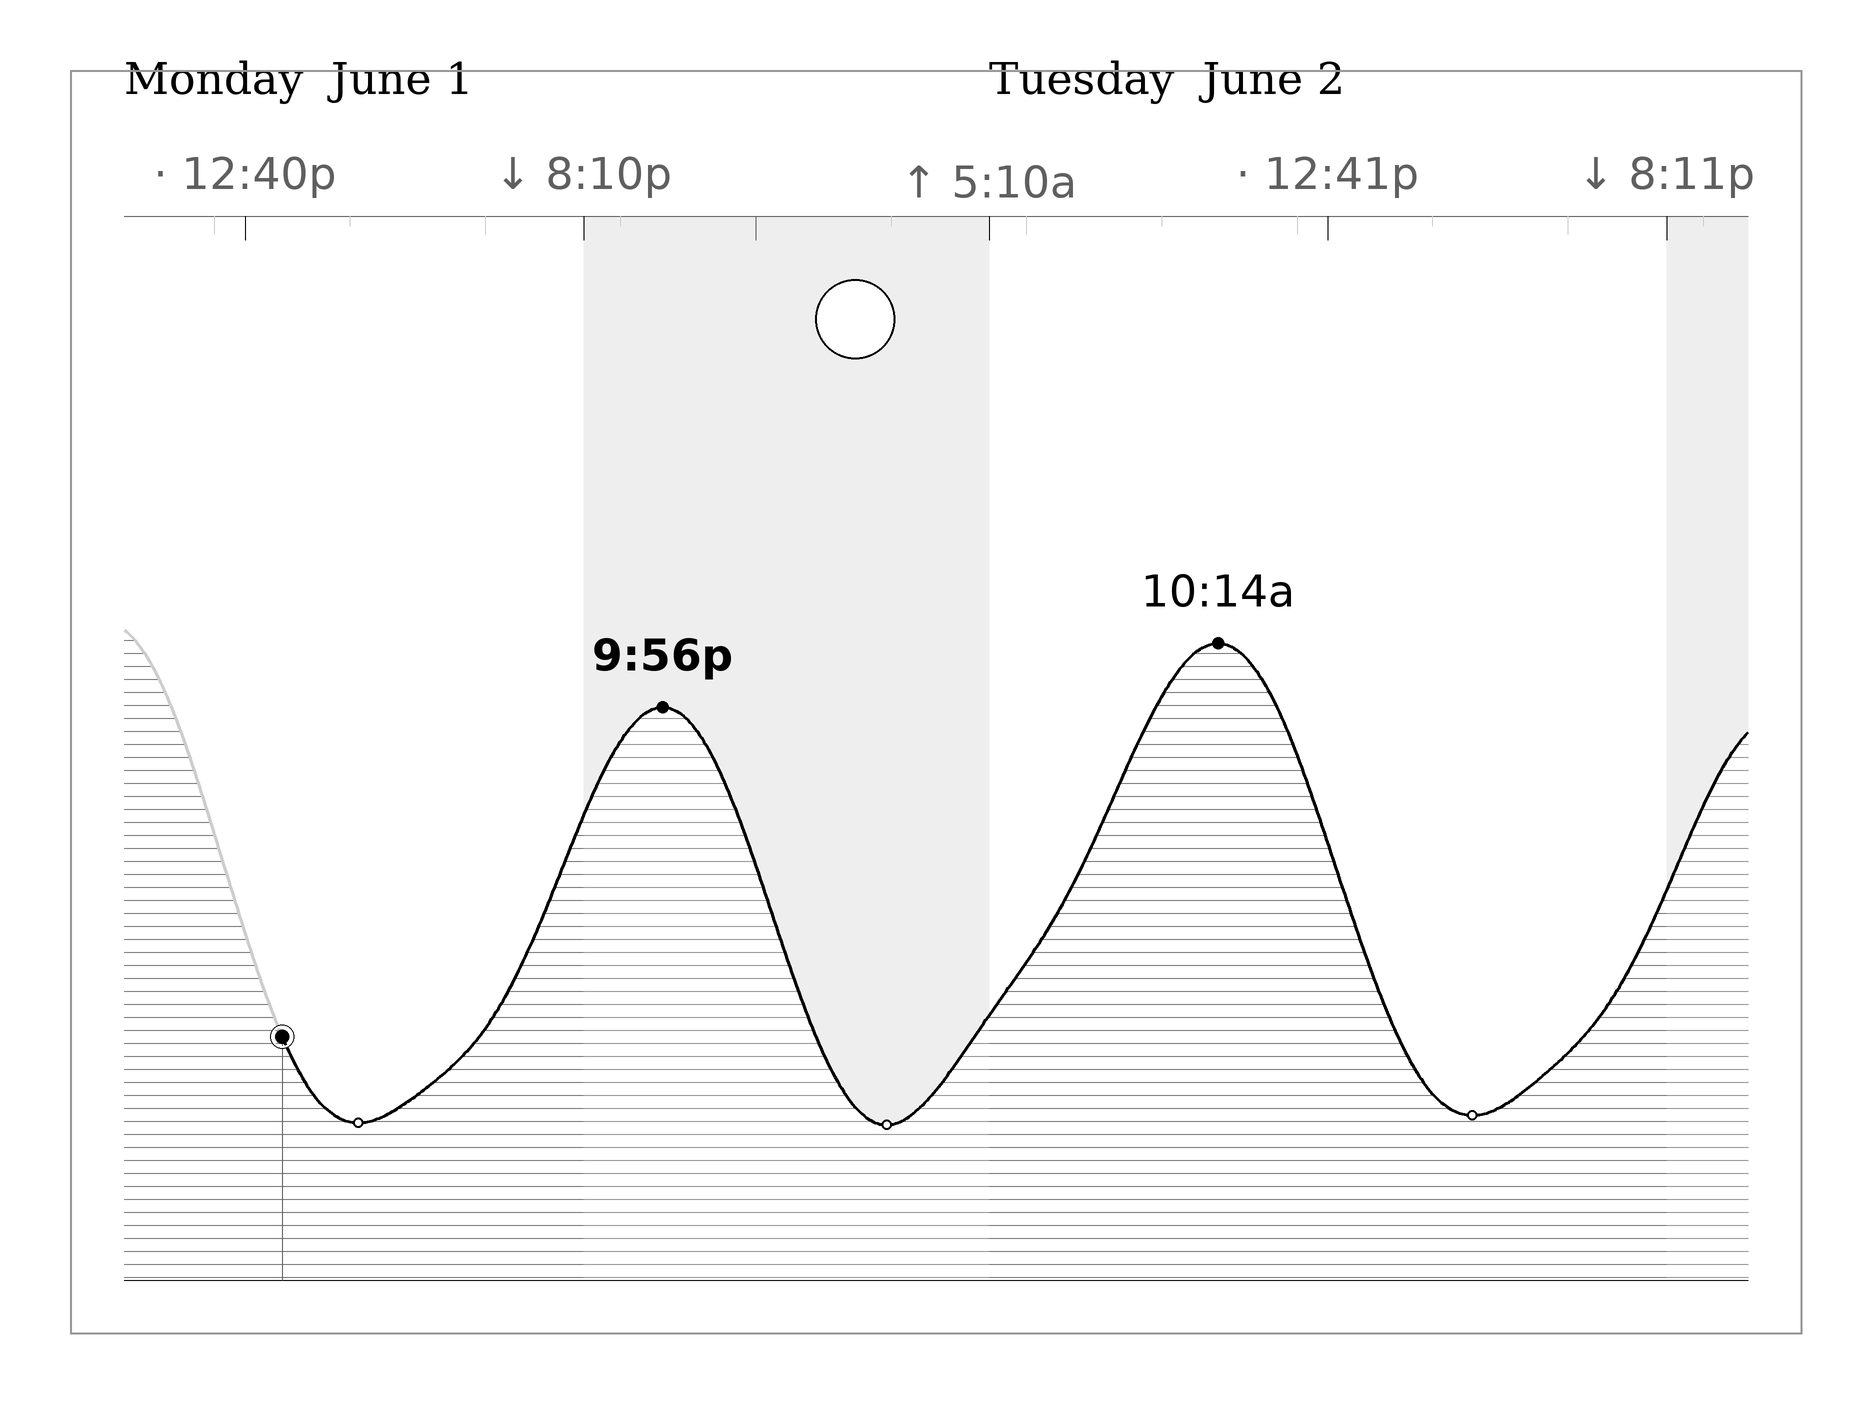
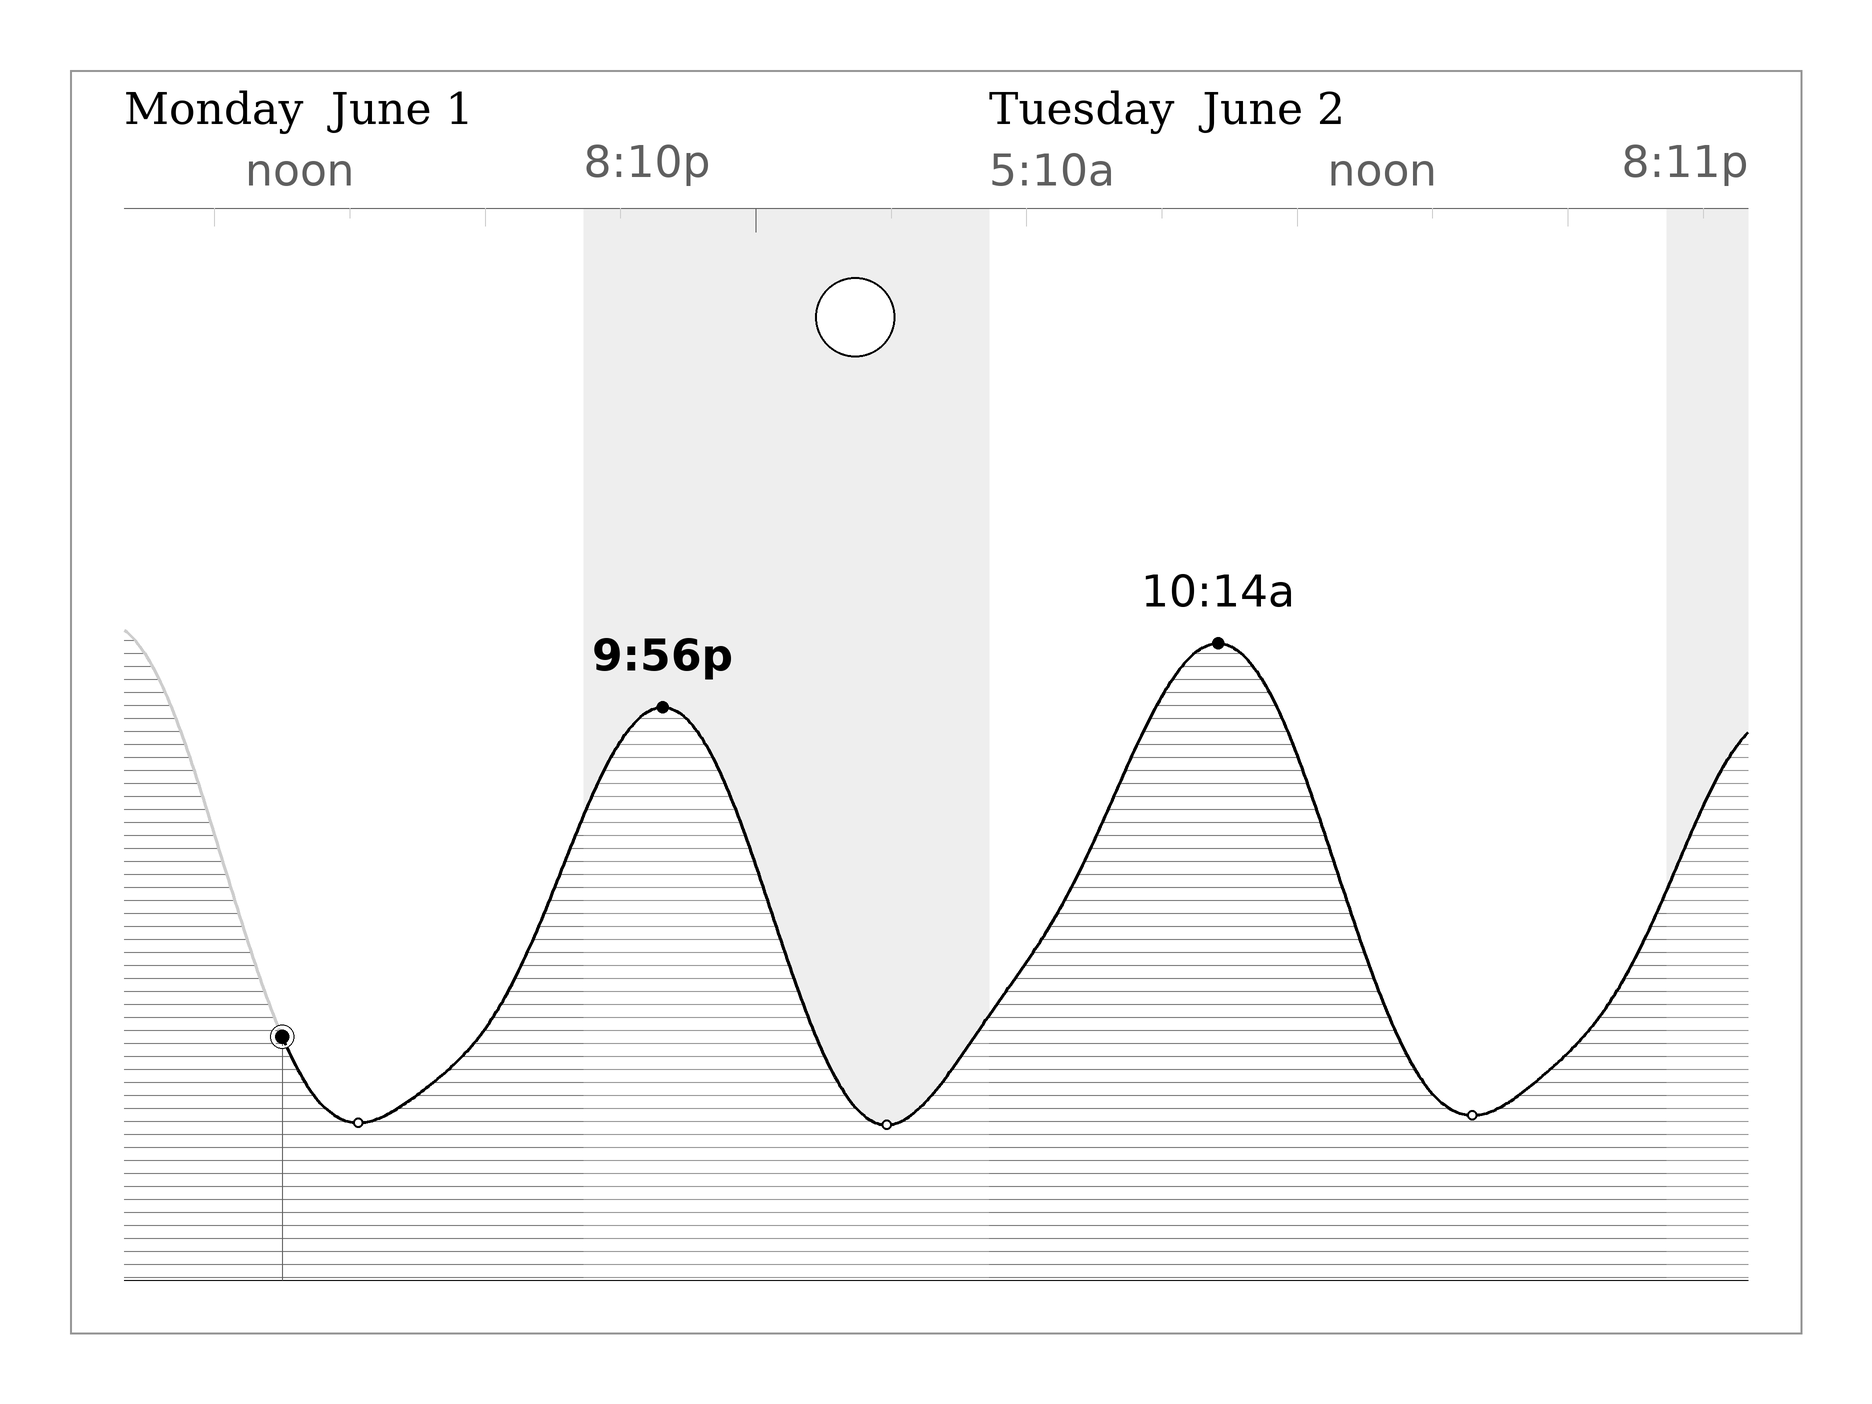
Fix title overflow; left-align sun times; label noon as "noon"
- Push the top three rows down so the day+date title no longer pokes above
  the frame border (the FONT_MIN floor had made it taller than its slot).
- Sun times row is now left-aligned at each event tick (sunrise / sunset),
  clamped to stay inside the plot, matching the title's left-anchoring.
- Solar noon now reads "noon" instead of a redundant clock time like "12:41p";
  sunrise and sunset show their times. Hour ticks remain on the 3h grid
  (3/6/9/12), so the sun events are called out by the times row, not by
  special ticks.

https://claude.ai/code/session_014Fq612UsCZ38iCJpVjwvpW

diff --git a/src/python/render/ribbon.py b/src/python/render/ribbon.py
@@ -246,9 +246,8 @@ def _draw_title_and_axis(c, ctx, X):
             c.text((left, T.TITLE_Y), label, T.INK, "serif", 30, anchor="lb")
         day = d1
 
-    # --- sun event times row (above the axis): sunrise, solar noon, sunset ---
+    # --- sun times row (above the axis), left-aligned near each event tick ---
     yt = T.AXIS_TICK_Y                # axis line; also the top of the night box
-    sun_marks = []                    # (x, when) to also tick on the axis
     d = start.astimezone(tz).date()
     last = end.astimezone(tz).date()
     while d <= last:
@@ -256,21 +255,21 @@ def _draw_title_and_axis(c, ctx, X):
         sr, ss = ev["sunrise"], ev["sunset"]
         marks = []
         if sr:
-            marks.append(("↑ " + _fmt_time(sr), sr))   # sunrise
+            marks.append((_fmt_time(sr), sr))            # sunrise time
         if sr and ss:
-            noon_t = sr + (ss - sr) / 2                       # solar noon
-            marks.append(("· " + _fmt_time(noon_t), noon_t))
+            marks.append(("noon", sr + (ss - sr) / 2))    # solar noon
         if ss:
-            marks.append(("↓ " + _fmt_time(ss), ss))    # sunset
+            marks.append((_fmt_time(ss), ss))            # sunset time
         for label, when in marks:
             x = X(when)
-            if T.PLOT_LEFT + 30 <= x <= T.PLOT_RIGHT - 30:
-                c.text((x, T.SUN_LABEL_Y), label, T.INK_SOFT, "sans", 20,
-                       anchor="mb")
-                sun_marks.append(x)
+            if T.PLOT_LEFT <= x <= T.PLOT_RIGHT:
+                w = c.text_width(label, "sans", 20)
+                lx = min(x, T.PLOT_RIGHT - w)   # left-align at the tick, clamp
+                c.text((lx, T.SUN_LABEL_Y), label, T.INK_SOFT, "sans", 20,
+                       anchor="lb")
         d += datetime.timedelta(days=1)
 
-    # --- axis line + ticks at 3 / 6 / 12 hour increments (ticks hang down) ---
+    # --- axis line + hour ticks at 3 / 6 / 9 / 12 (ticks hang into night) ---
     c.line([(T.PLOT_LEFT, yt), (T.PLOT_RIGHT, yt)], T.INK_SOFT, 1)
     t = start.replace(minute=0, second=0, microsecond=0)
     while t < start or t.hour % 3 != 0:
@@ -284,9 +283,6 @@ def _draw_title_and_axis(c, ctx, X):
         else:
             c.line([(x, yt), (x, yt + T.AXIS_TICK_SHORT)], T.GRID, 1)
         t += datetime.timedelta(hours=3)
-    # sun-event ticks: longer and darker so they stand out from hour ticks
-    for x in sun_marks:
-        c.line([(x, yt), (x, yt + T.AXIS_TICK_LONG + 6)], T.INK, 1)
 
 
 def _moon_glyph(c, cx, cy, r, frac, illum):

diff --git a/src/python/render/theme.py b/src/python/render/theme.py
@@ -33,13 +33,12 @@ PAD = 54                  # breathing room from border to the drawing area
 PLOT_LEFT = MARGIN + PAD
 PLOT_RIGHT = WIDTH - MARGIN - PAD
 
-# Top "chart furniture": a title row (day + date) and an axis row below it
-# carrying tick marks and sunrise / noon / sunset times.
-TITLE_Y = MARGIN + 34             # baseline of the big day name
-DATE_Y = TITLE_Y + 38             # baseline of the smaller date line
-SUN_LABEL_Y = DATE_Y + 56         # sunrise/noon/sunset times row
-AXIS_TICK_Y = SUN_LABEL_Y + 18    # x-axis line + ticks; also the night-box top
-AXIS_TICK_LONG = 18               # tick length for 6h / day marks
+# Top "chart furniture", three rows top-to-bottom: day+date, sun times,
+# then the x-axis line (also the night-box ceiling) with its hour ticks.
+TITLE_Y = MARGIN + 64             # baseline of the day + date title line
+SUN_LABEL_Y = TITLE_Y + 52        # sunrise / noon / sunset times row
+AXIS_TICK_Y = SUN_LABEL_Y + 22    # x-axis line + ticks; also the night-box top
+AXIS_TICK_LONG = 18               # tick length for 6h / midnight marks
 AXIS_TICK_SHORT = 10              # tick length for 3h marks
 
 SKY_TOP = AXIS_TICK_Y             # night bands hang from the axis line down
